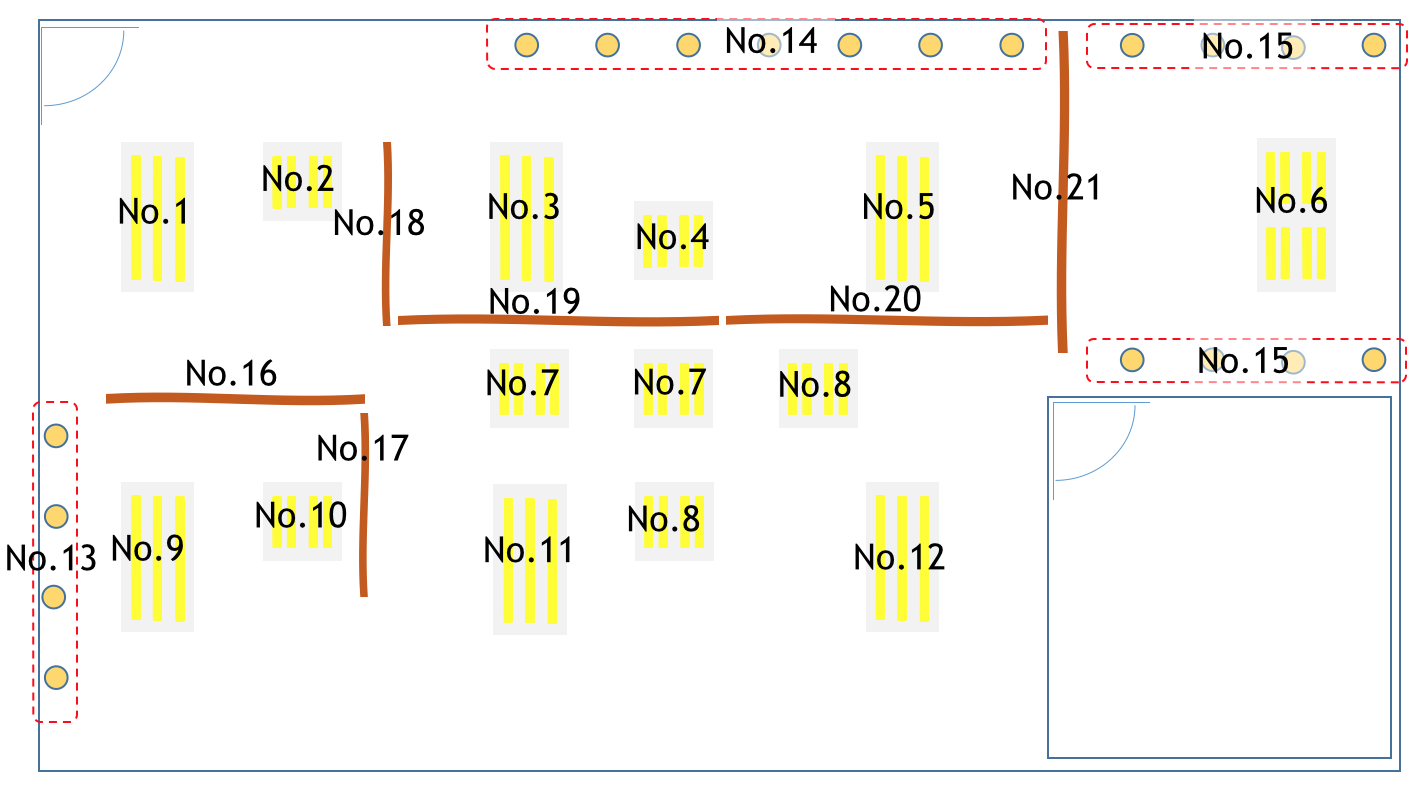
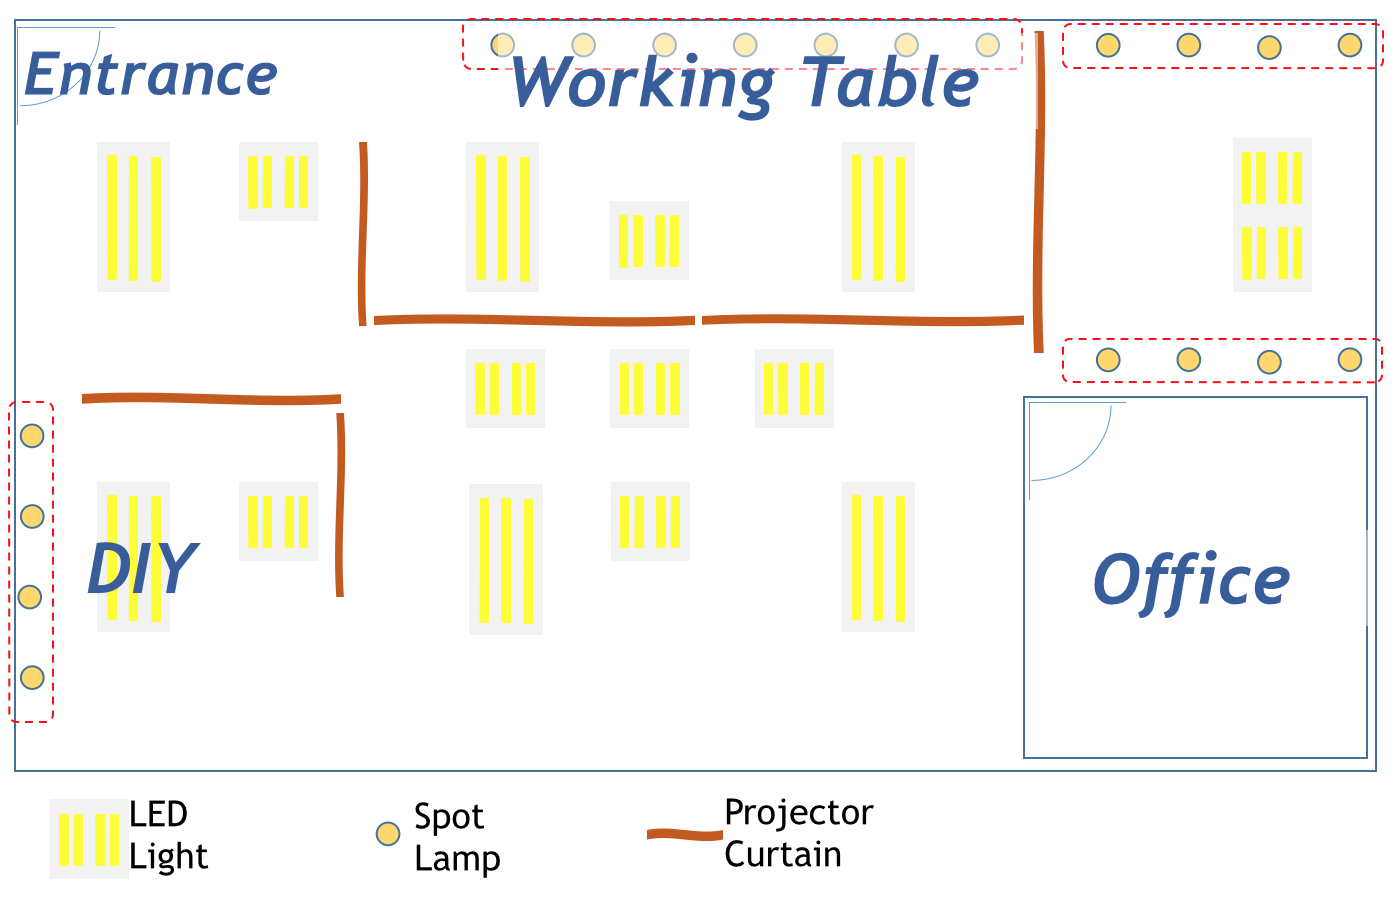
Fix data missing bug and update planar.

diff --git a/wukong/master/templates/index5.html b/wukong/master/templates/index5.html
@@ -9,12 +9,14 @@
 
     </head>
     <body>
-<script>
+<script>//load NodeID/PortID
 
    var len;
   var node_id=[];
   var port_id=[];
    var op=[];
+   var tt=0;
+function init(){
    {% for index, app in enumerate(applications) %}
 
               len={{index}}+1;
@@ -27,9 +29,11 @@
               var i = 0;
 
     {% end %}
+
+}
 </script>
-<script type="text/javascript">
-    function loadXMLDoc(n,p,loc)
+<script type="text/javascript">//update sensing data
+    function loadXMLDoc()
     {
         if (window.XMLHttpRequest)
         {// code for IE7+, Firefox, Chrome, Opera, Safari
@@ -41,32 +45,31 @@
         }
         xmlhttp.onreadystatechange=function()
         {
-          //console.log(xmlhttp.responseText);
-          //value_chart.push(xmlhttp.responseText);
-
             if (xmlhttp.readyState==4 && (xmlhttp.status==200 || xmlhttp.status==304))
             {
+                console.log(xmlhttp.responseText);
               var str_tmp=xmlhttp.responseText;
               var s = str_tmp.indexOf("[");//16
               var e = str_tmp.indexOf("]");//20
-                //document.getElementById("test_value").innerHTML = parseInt(str_tmp.substring(s+1, e));//22
-                op[loc]=(parseInt(str_tmp.substring(s+1, e)));
-                //console.log(value_chart[0]);
-                //console.log("in");
+              var res=str_tmp.substring(s+1, e).split(",");
+for (i=0;i<len;i++){
+    op[i]=res[i];
+
+}
             }//console.log("out");
         }
-        xmlhttp.open("GET","../../getvalue?arg1=IR%20Sensor&arg2="+n+"&arg3="+p+"&arg4=BL-7F%20entrance",true);
+        xmlhttp.open("GET","../../getvalue_array",true);
         xmlhttp.send();
     }
 </script>
 
         <img src="/static/images/planar.png" width=1000 height=800 style="position:absolute; left:20px; top:20px; z-index:-1;"/>
         <script type="text/javascript">
-
+init();
 var circleData = [
-  { "cx": 300, "cy": 230, "radius": 70, "color" : "yellow", "opacity" : 0.5, "z":2 , "idx":0 },
-  { "cx": 700, "cy": 220, "radius": 70, "color" : "yellow", "opacity" : 1, "z":2 , "idx":1},
-  { "cx": 550, "cy": 100, "radius": 70, "color" : "yellow", "opacity" : 0.7, "z":2 , "idx":2},
+  { "cx": 130, "cy": 230, "radius": 70, "color" : "yellow", "opacity" : 0.5, "z":2 , "idx":0 },
+  { "cx": 550, "cy": 100, "radius": 70, "color" : "yellow", "opacity" : 1, "z":2 , "idx":1},
+  { "cx": 200, "cy": 420, "radius": 70, "color" : "yellow", "opacity" : 0.7, "z":2 , "idx":2},
   { "cx": 580, "cy": 300, "radius": 70, "color" : "yellow", "opacity" : 0.3, "z":2 , "idx":3}];
 var svgContainer = d3.select("body").append("svg")
                                      .attr("width",1000)
@@ -98,11 +101,8 @@ var circleAttributes = circles
     });
 
     function refreshTable(){
-        console.log("refresh");
-        for(i=0;i<len;i++){
-            loadXMLDoc(node_id[i],port_id[i],i);
-            console.log(op[i]);
-        }
+loadXMLDoc();
+        
          d3.select("svg").remove();
         svgContainer = d3.select("body").append("svg")
                                      .attr("width",1000)
@@ -121,7 +121,21 @@ var circleAttributes = circles
                         .style("fill", function (d) { return d.color; })            
                         .style("position", "absolute")
                         .style("z-index", 2);
-        setTimeout(refreshTable, 1000);
+
+        var text= svgContainer.selectAll("text")
+                        .data(circleData)
+                        .enter()
+                        .append("text");
+
+        var textLabels = text
+                 .attr("x", function(d) { return d.cx-10; })
+                 .attr("y", function(d) { return d.cy; })
+                 .text( function (d) { return op[d.idx]; })
+                 .attr("font-family", "sans-serif")
+                 .attr("font-size", "20px")
+                 .attr("fill", "red");
+
+        setTimeout(refreshTable, 300);
     }
 </script>
 

diff --git a/wukong/master/master_server.py b/wukong/master/master_server.py
@@ -297,8 +297,10 @@ class GetValue(tornado.web.RequestHandler):
 
 class GetValue_array(tornado.web.RequestHandler):
   def get(self):
-      obj2 = Test('IR Sensor',int(self.get_argument("arg2")),int(self.get_argument("arg3")),'BL-7F entrance')
-      self.render('templates/value.html', applications=[obj2.value])
+      obj=[]
+      for i in range(MONITORING_COUNT):
+        obj.append(Test('IR Sensor',MONITORING_NODE[i],MONITORING_PORT[i],'BL-7F entrance').value)
+      self.render('templates/value.html', applications=obj)
 
 
 # Returns a form to upload new application
@@ -1220,6 +1222,7 @@ wukong = tornado.web.Application([
   (r"/monitoring_chart/([0-9]*)/([0-9]*)",Monitoring_Chart),
   (r"/monitoring_planar",Monitoring_Planar),
   (r"/getvalue",GetValue),
+  (r"/getvalue_array",GetValue_array),
   (r"/refresh/([0-9]*)/([0-9]*)/([0-9]*)/([0-9]*)", SetRefresh),
   (r"/configuration", Progression),
   (r"/getRefresh/([0-9]*)/([0-9]*)/([0-9]*)", GetRefresh)
